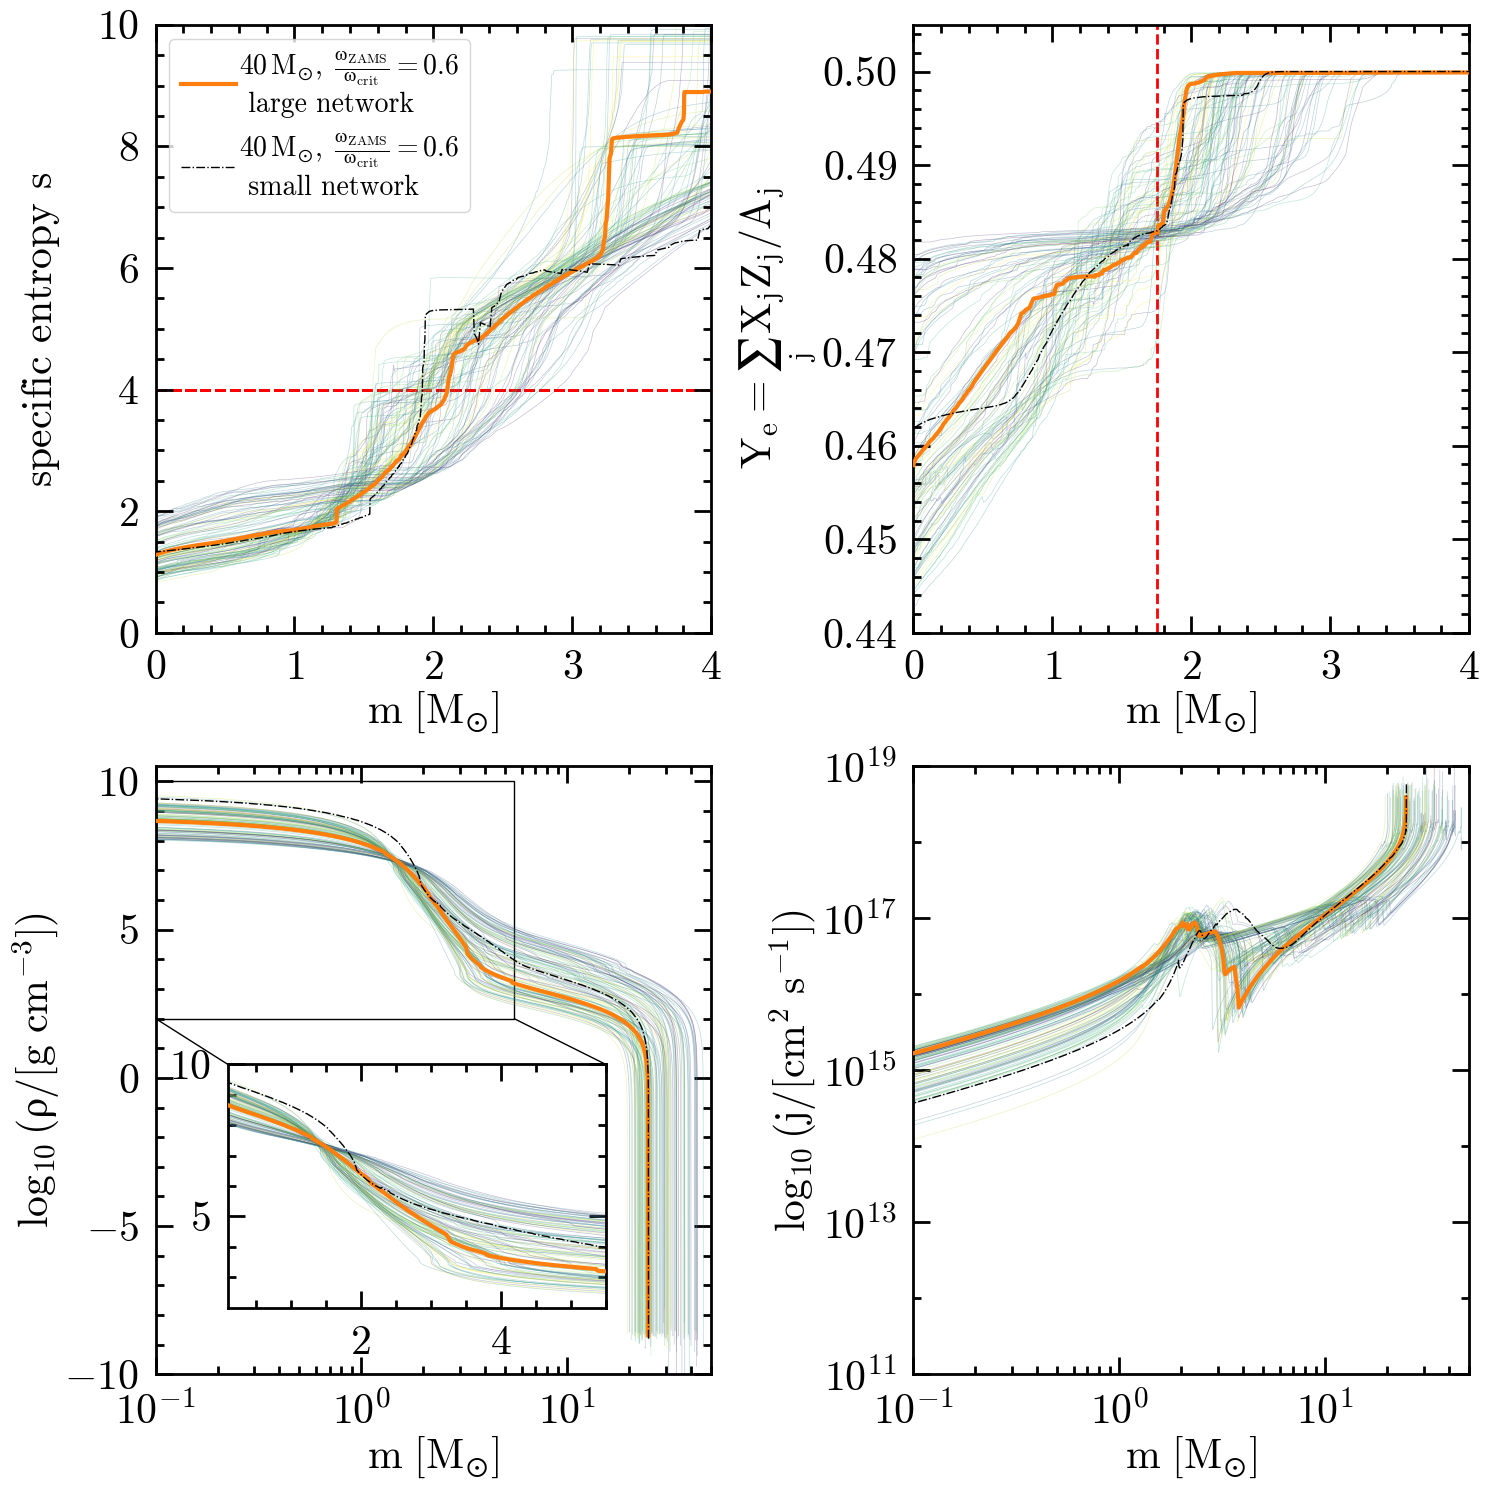
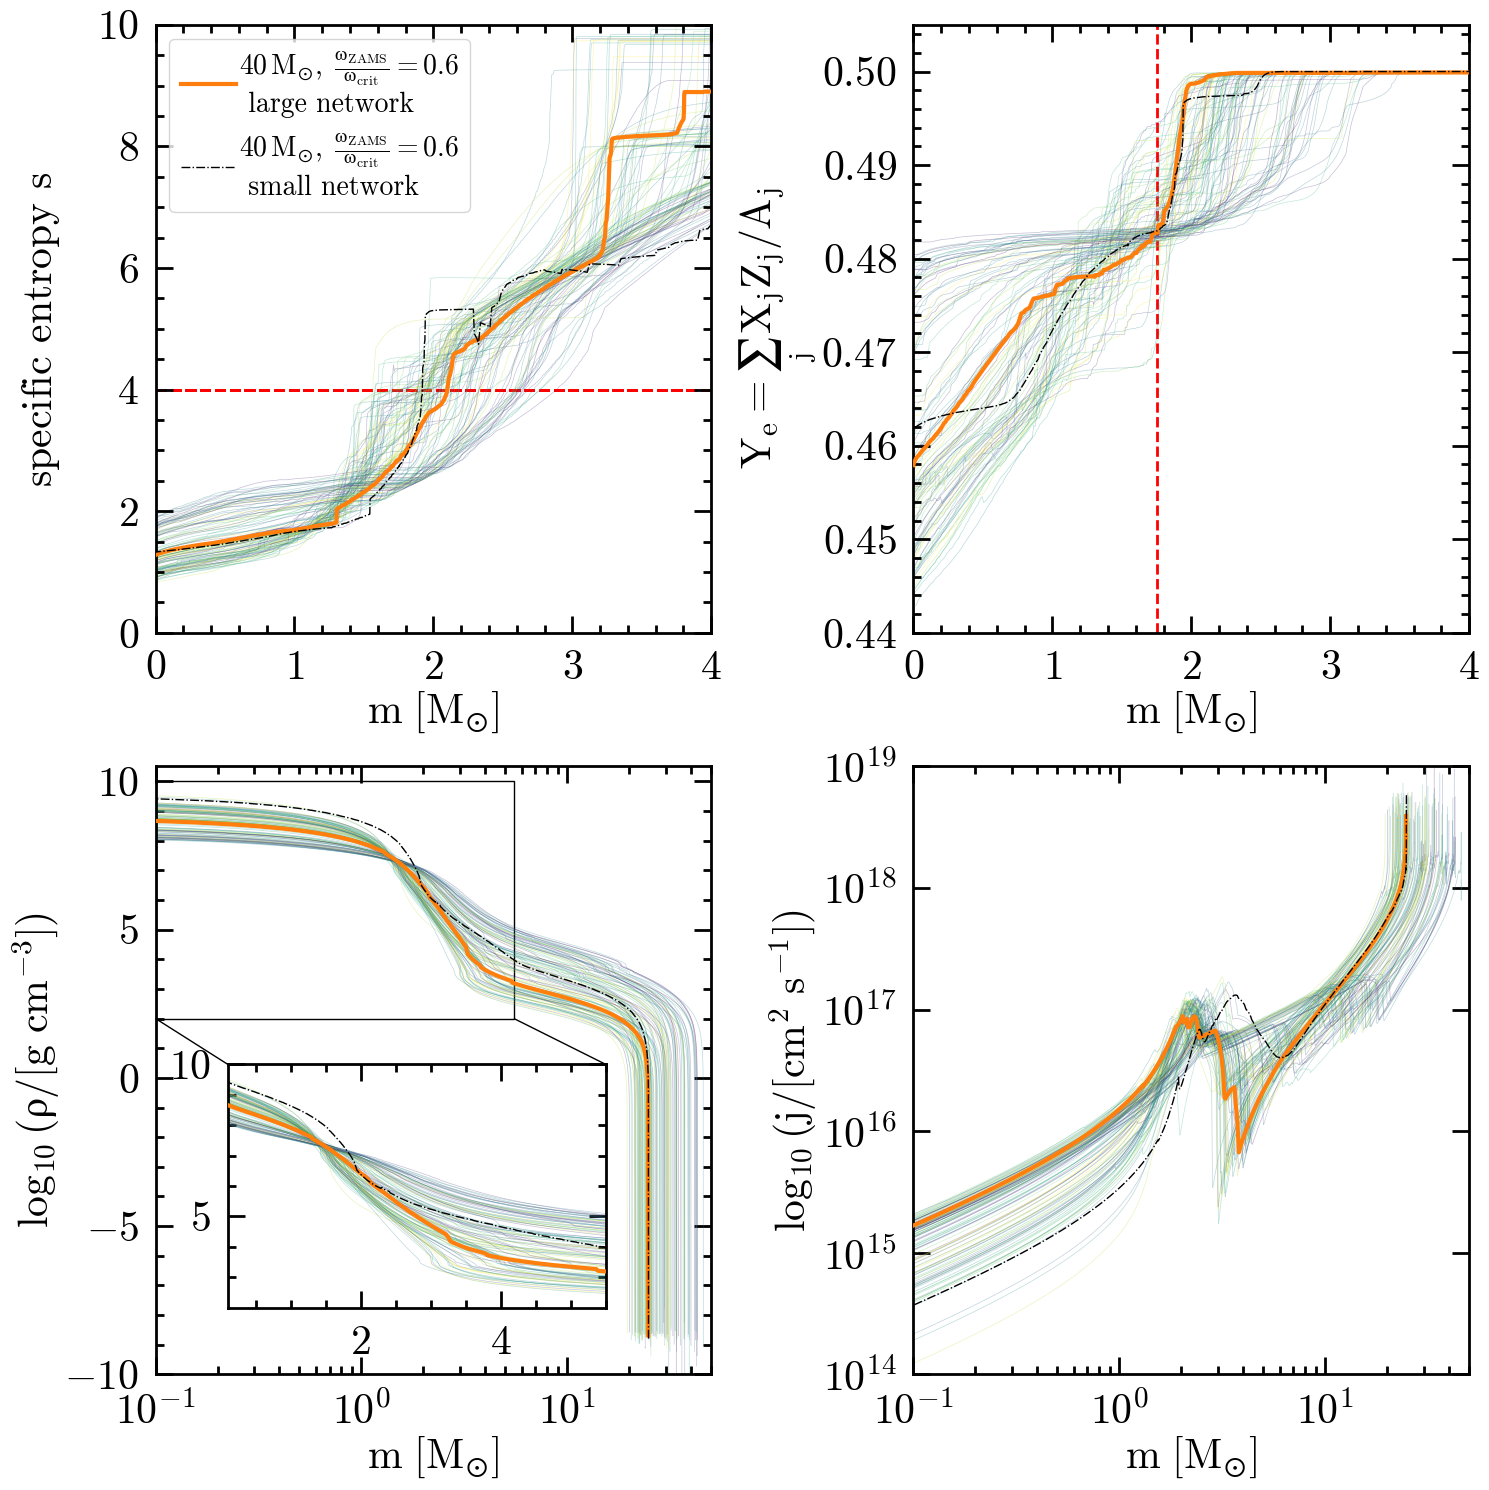
x-axis limits and ticks

diff --git a/scripts/multi_panel.py b/scripts/multi_panel.py
@@ -127,11 +127,11 @@ if __name__ == "__main__":
     my_mark_inset(ax2, zx, loc1a=2, loc1b=3, loc2a=1, loc2b=4)
 
     ax3.set_yscale('log')
-    ax3.set_ylim(1e11, 1e19)
+    ax3.set_ylim(1e14, 1e19)
 
     ax3.set_xscale('log')
     ax3.set_xlim(1e-1, 50)
-    ax3.set_yticks([1e12, 1e14, 1e16, 1e18], minor=True)
+    ax3.set_yticks([1e15, 1e17, 1e19], minor=True)
     ax3.set_yticklabels([], minor=True)
     ax3.set_xlabel(r"$m\ [M_{\odot}]$")
     ax3.set_ylabel(r"$\log_{10}(j/\mathrm{[cm^{2}\ s^{-1}]})$")

diff --git a/scripts/B-fields.py b/scripts/B-fields.py
@@ -58,6 +58,7 @@ if __name__ == "__main__":
     # ax0.set_xticklabels([], minor=True)
     ax0.set_yticks([1e13, 1e11, 1e9, 1e7, 1e5], minor=True)
     ax0.set_yticklabels([], minor=True)
+    ax0.set_xticklabels([])
     ax1.set_ylim(1e4, 1e13)
     ax1.set_yscale('log')
     ax1.set_xscale('log')